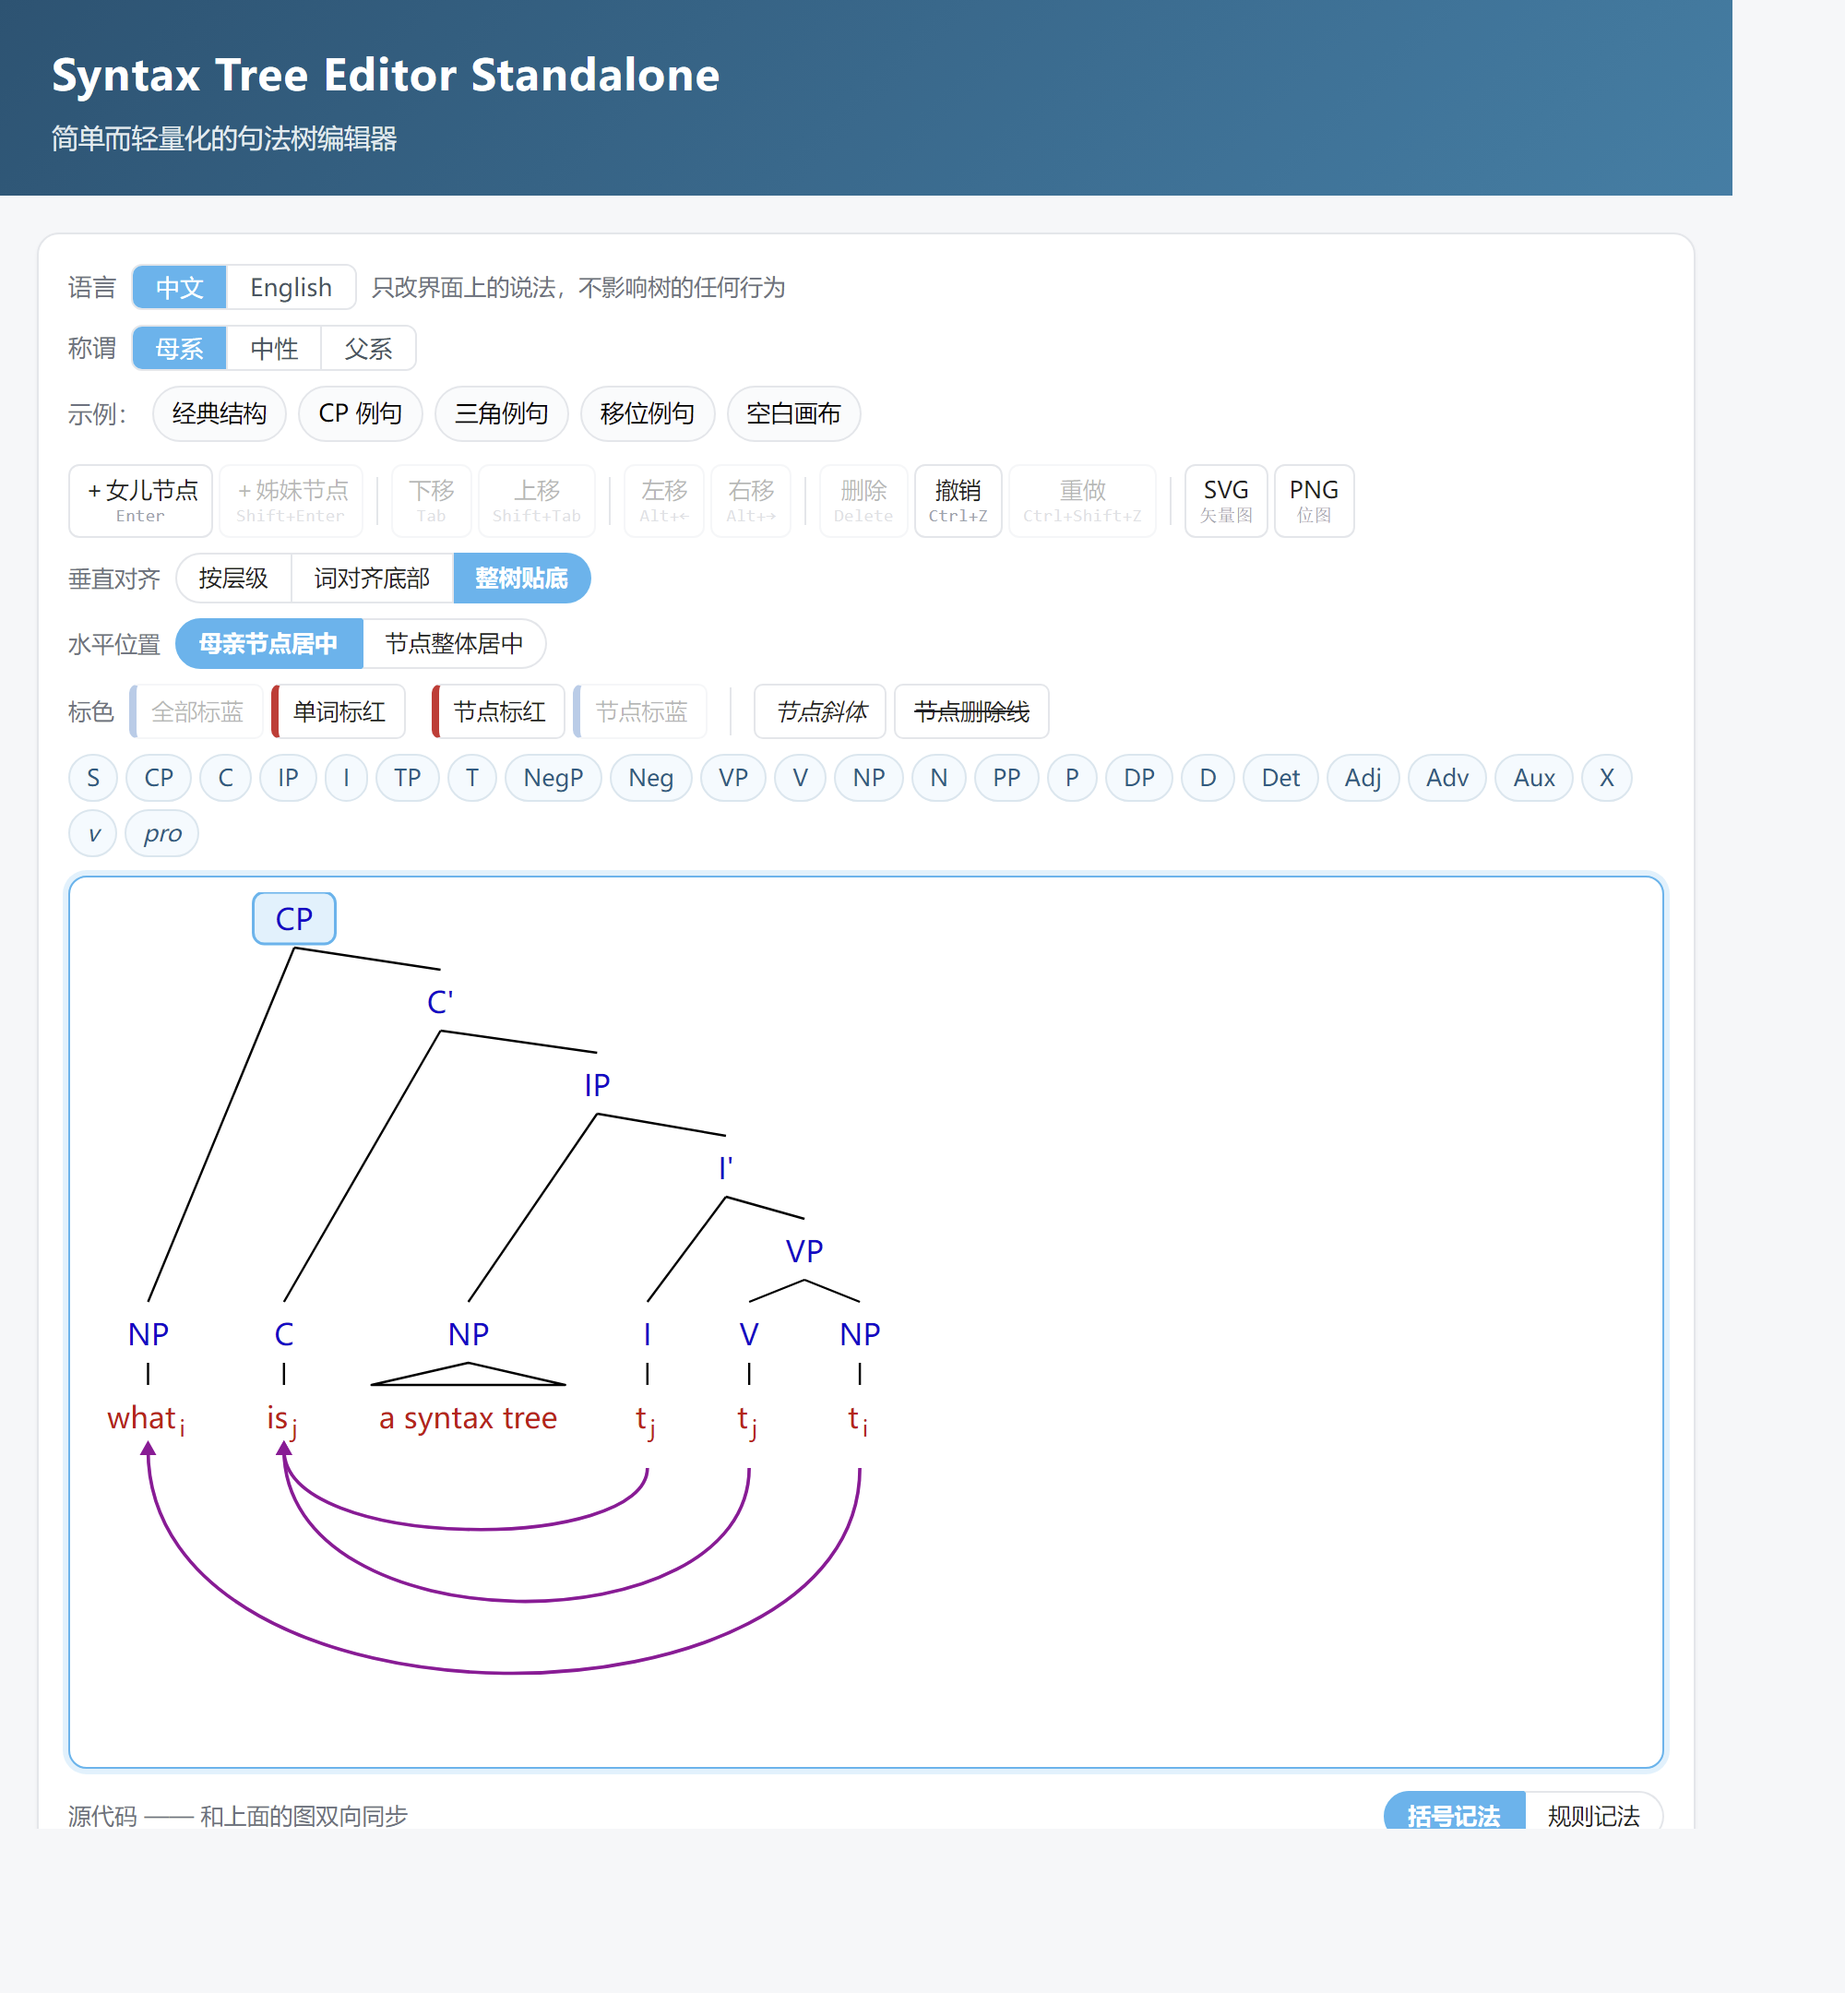
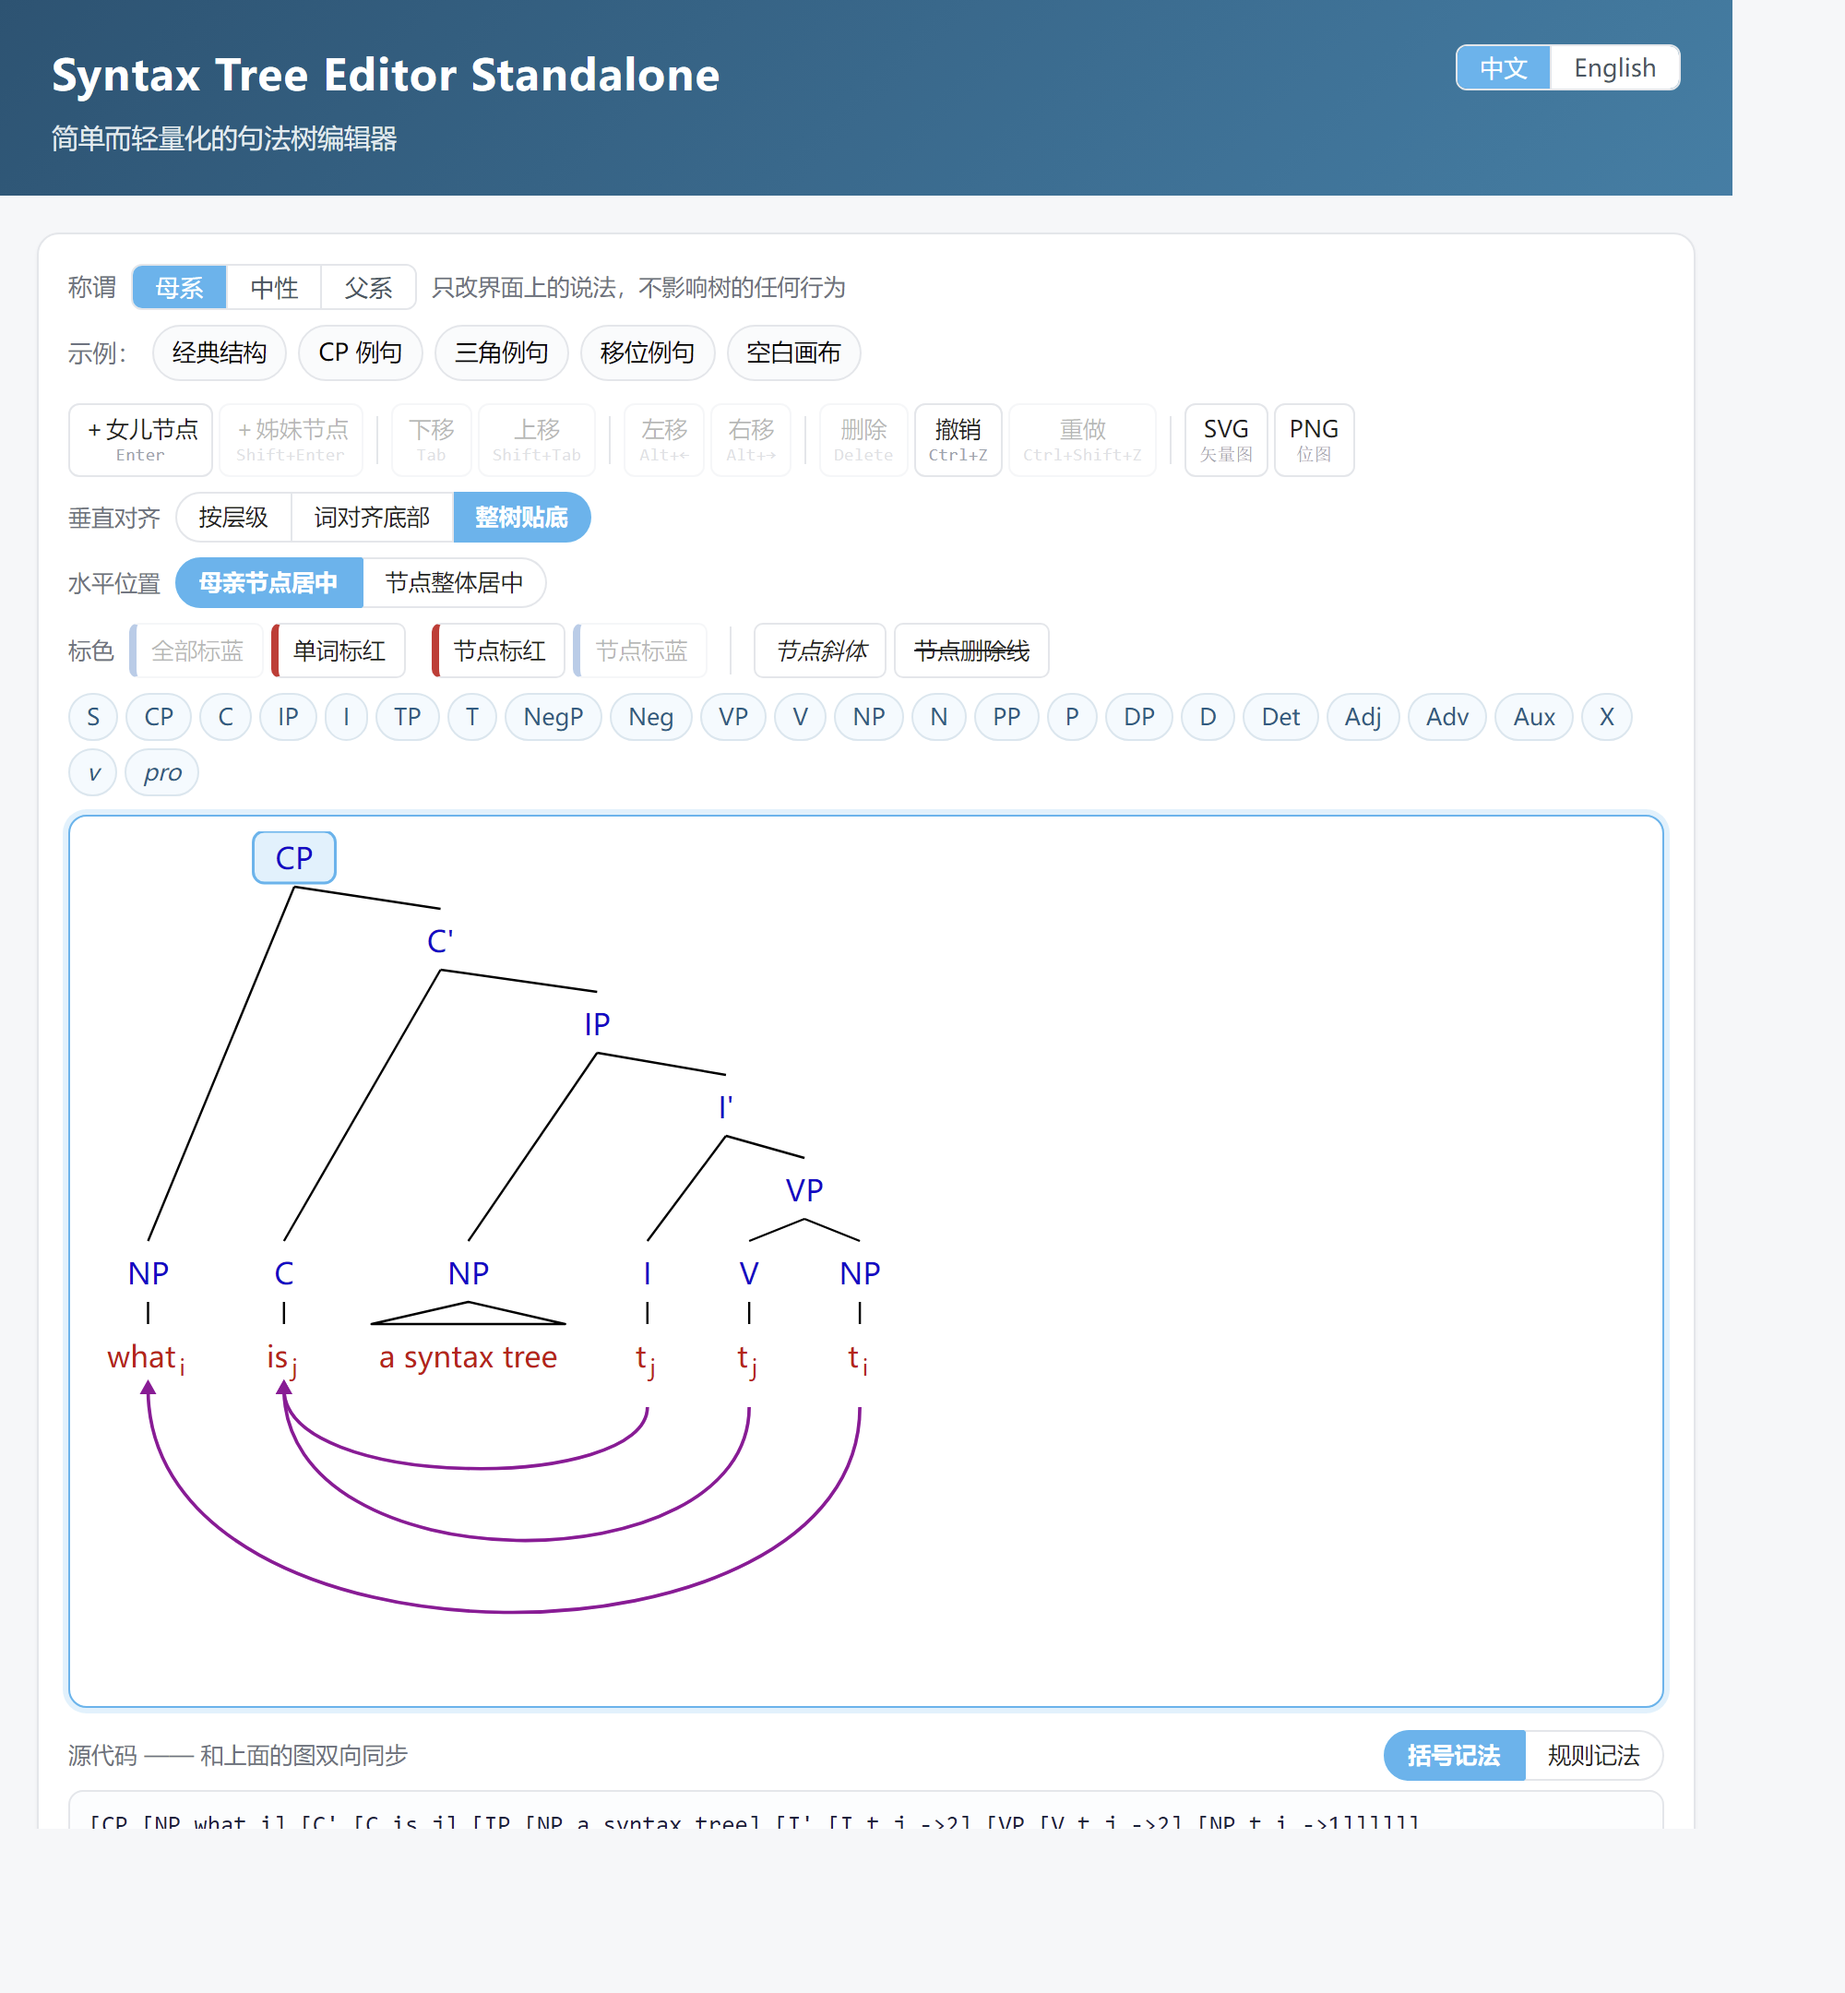
收尾：重拍六张截图 + 把"教程未翻"的笔记全部同步掉
截图（界面已变：语言切换在页头右上角、英文称谓 Maternal / Neutral / Paternal、底部三个链接）：
- 六张全部重拍（overview 1000x1010、三种对齐 1000x1080、blank 1000x700、rules-gutter 1000x750）
- 已肉眼核对 overview：语言按钮在右上角、称谓行、示例行、工具栏、标色行、画布（词红范畴蓝）、
  状态行与提示行都完整可见、底部没有被切

笔记同步（这些地方原来都写着"教程正文还没有英文版"）：
- AGENTS.md 6.3：改成"中英两版都在维护中"，写明中文在 index.html、英文在 src/docs-en.js、
  改一版要同步另一版且锚点必须一致；版本号改成 1.2.3（三处一致由自检强制）
- Todolist.md 第一节：需求⑦ 标记完成（v1.2.2 界面 + v1.2.3 教程正文），只剩重拍截图
- HANDOVER.md 快照：需求⑦ 进度改为"完成"
- i18n/README.md：那一节从"唯一剩下的"改成"已完成"，并注明工作区里的 docs-en-draft.html
  只是历史草稿、以仓库里的 src/docs-en.js 为准

测试 307 项全绿 + 自检通过。

diff --git a/AGENTS.md b/AGENTS.md
@@ -283,16 +283,17 @@ cmd /c "npm run build"   ← 重新生成单文件版
 
 ### 6.3 当前的问题 / 待办
 
-1. **教程正文还没有英文版**（约 490 行，需求⑦ 唯一剩下的部分）。草稿在**工作区**（不在仓库）的
-   `i18n/docs-en-draft.html`：目录已翻完、正文翻了 2/17 小节，文件末尾有按 `id` 列的 TODO 表与三条注意事项；
-   接线步骤见工作区 `i18n/README.md` 的 6 步。翻完要把 `main.js` 里的 `DOCS_LANG` 改成跟着界面语言走，
-   并删掉 `CHANGELOG` 里那条「已知限制」。
-2. **`screenshots/` 六张待重拍**：界面已经过多轮变化（语言切换挪到页头右上角、英文称谓改用
-   Maternal / Neutral / Paternal 等），现有图与界面不符。配方在 `HANDOVER.md` 第六部分。
+1. **教程正文中英两版都在维护中**（v1.2.3 起）：中文那份在 `index.html` 的 `<section class="card docs">`，
+   英文那份是 `src/docs-en.js` 里的 `DOCS_EN` 常量。改任意一版都要**同步另一版**，
+   而且 `doc-*` 锚点必须两边一致 —— `check-project.mjs` 有专门一节在比。
+   位置与文件结构见 `src/docs-en.js` 顶部的注释。
+2. **`screenshots/` 六张**：界面每变一次（语言切换挪到页头右上角、英文称谓改用
+   Maternal / Neutral / Paternal、底部加了三个链接）都要重拍；配方在 `HANDOVER.md` 第六部分。
 3. **内部特性（转义节点 / `%Empty`）的规格不在本仓库** —— 作者要求不公开，规格与来龙去脉记在
    工作区 `HANDOVER.md` 第九部分 ⑤。上面 6.1 第 1 条讲的是它的**渲染手法**（不含语法）；
    本文件只留这个名字，不给语法，README / 教程 / CHANGELOG 里一个字都没有。
-4. **版本号**：`package.json` 与页脚是 `1.2.2`（内部开发号，未发布）；对外最新仍是 `1.2.0`。
+4. **版本号**：`package.json` 与页脚是 `1.2.3`（内部开发号，未发布）；对外最新仍是 `1.2.0`。
+   三处一致性（`package.json` / 页脚 / `CHANGELOG` 顶部）由自检强制。
 
 ### 不要做的事
 
